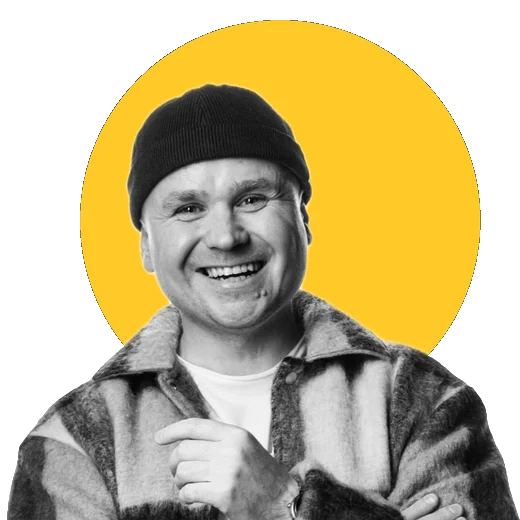
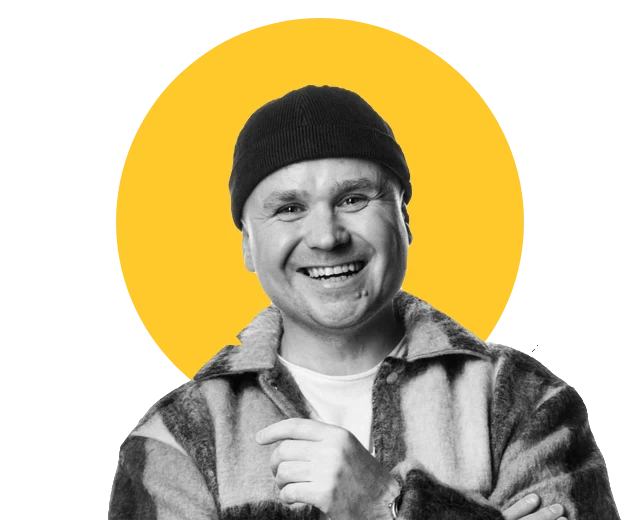
Лицо по центру золотого круга

diff --git a/assets/site.css b/assets/site.css
@@ -10,7 +10,7 @@ a:focus-visible{outline:2px solid var(--gold);outline-offset:3px}
 .top a:hover{color:var(--gold)}
 .hero{display:grid;gap:var(--s5)}
 .hero-photo{margin-inline:calc(var(--s4)*-1);overflow:hidden}
-.hero-photo img{display:block;width:min(72vw,300px);max-width:520px;aspect-ratio:1;height:auto;margin:0 auto;object-fit:cover;-webkit-mask-image:linear-gradient(#000 88%,transparent);mask-image:linear-gradient(#000 88%,transparent)}
+.hero-photo img{display:block;width:min(88vw,360px);max-width:520px;aspect-ratio:640/520;height:auto;margin:0 auto;object-fit:cover;-webkit-mask-image:linear-gradient(#000 88%,transparent);mask-image:linear-gradient(#000 88%,transparent)}
 .hero-text{display:grid;gap:var(--s4);min-width:0}
 h1{font:700 var(--t-h1)/1.08 var(--font-display);letter-spacing:-.01em;text-transform:uppercase;margin:0;text-wrap:balance}
 .lead{margin:0;color:var(--text-2);max-width:var(--measure);text-wrap:pretty}

diff --git a/index.html b/index.html
@@ -21,7 +21,7 @@
 <header class="top"><a href="index.html">Андрей Горбунов</a><a href="about.html">Обо мне</a></header>
 <main id="home" data-ekran="home">
 <section class="hero" data-ideya="avtor">
-<div class="hero-photo"><img src="assets/avtor-oblozhka.webp" alt="Андрей Горбунов улыбается на фоне золотого круга" width="520" height="520"></div>
+<div class="hero-photo"><img src="assets/avtor-oblozhka.webp" alt="Андрей Горбунов улыбается на фоне золотого круга" width="640" height="520"></div>
 <div class="hero-text">
 <h1>Где у тебя&nbsp;затык?</h1>
 <p class="who">Для психологов, коучей, астрологов и всех, кто продаёт свои знания</p>
